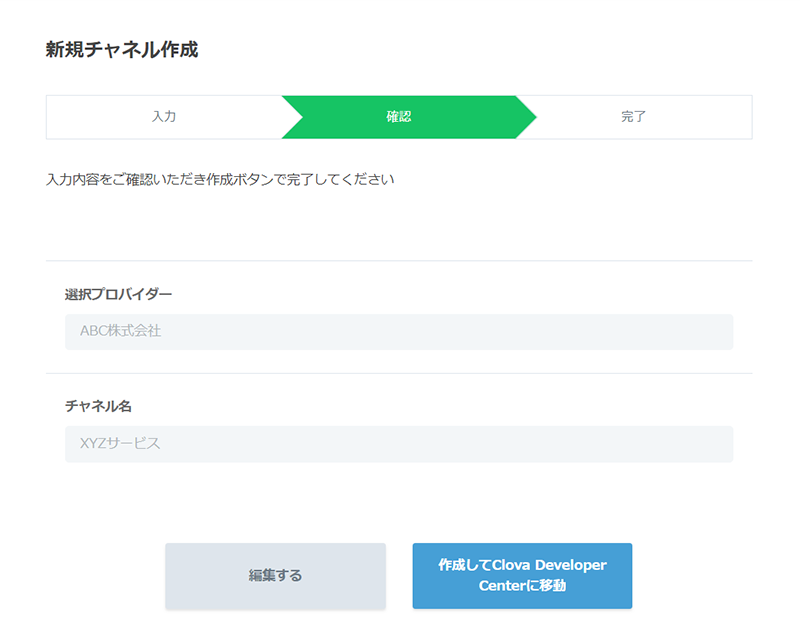
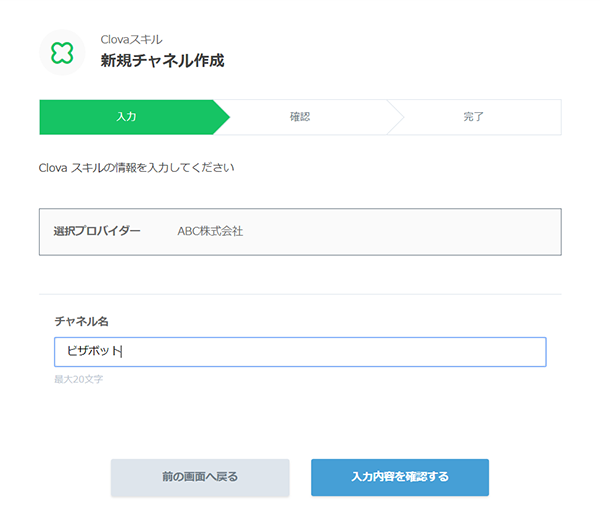
Modify "how to create channel", add Skill Store images
- Modified "How to create channel" caused by UI change
- Added Skill Store images of Clova App

Former-commit-id: 0dc367d44e5af8052373afbfee95f80097b138b5 [formerly 0c0ca5108bff5ba2105f1e1f6f863537530823a3]
Former-commit-id: 9754db1b30ecd9c89f13f521f52a3edb93a5075a

diff --git a/ja/DevConsole/Guides/CEK/Create_Channel.md b/ja/DevConsole/Guides/CEK/Create_Channel.md
@@ -15,9 +15,9 @@ Clova Developer Center βにログインします。
 ![](/DevConsole/Resources/Images/DevConsole-Access_Agreement.png)
 
 3. **スキル設定** または **スキルを開発する** をクリックします。  
-![](/DevConsole/Resources/Images/DevConsole-DevConsole_Home.png)
+![](/DevConsole/Resources/Images/DevConsole-Entering_CEK_Menu.png)
 
-4. **LINE Developersに遷移してスキルを作成** をクリックします。  
+4. **LINE Developersでスキルチャネルを新規作成** をクリックします。  
 ![](/DevConsole/Resources/Images/DevConsole-First_Look_of_Extension_List.png)
 
 <div class="note">
@@ -36,14 +36,20 @@ LINE Developersコンソールでチャネルを作成します。
   お手数ですが、営業担当までご連絡いただきますようお願いいたします。</p>
 </div>
 
-1. **新規チャネル作成** で **Clova** を選択します。  
-![](/DevConsole/Resources/Images/DevConsole-Select_Channel_Type.png)
+1. **プロバイダーリスト** をクリックします。  
+![](/DevConsole/Resources/Images/DevConsole-Provider_List_1.png)
 
-2. プロバイダーを選択します。あらかじめ作成したプロバイダーを使用する場合は、ラジオボタンで当該のプロバイダーを選択し、**次のページ** をクリックします。  
+2. プロバイダーを選択します。  
+![](/DevConsole/Resources/Images/DevConsole-Provider_List_2.png)
+
+  あらかじめ作成したプロバイダーを使用する場合は、当該のプロバイダーをクリックし、**新規チャネル作成** をクリックします。  
 ![](/DevConsole/Resources/Images/DevConsole-Create_Channel_1.png)
 
-  新規プロバイダーを作成する場合は、ラジオボタンで **新規プロバイダー作成** を選択すると入力フォームが表示されます。**新しく追加するプロバイダー名** を入力して **次のページ** をクリックします。  
+  新規にプロバイダーを作成する場合は、**新規プロバイダー作成** をクリックします。新しく追加するプロバイダー名を入力して **確認する** ボタンをクリックします。  
 ![](/DevConsole/Resources/Images/DevConsole-Create_Channel_2.png)
+
+  入力したプロバイダー名を確認して、**作成する** をクリックします。  
+![](/DevConsole/Resources/Images/DevConsole-Create_Channel_3.png)
 
   <div class="note">
     <p><strong>メモ</strong></p>
@@ -51,8 +57,12 @@ LINE Developersコンソールでチャネルを作成します。
     ご自分の名前、あるいは企業名などを入力してください。</p>
   </div>  
 
-3. **チャネル名** を入力し、**入力内容を確認する** をクリックします。  
-![](/DevConsole/Resources/Images/DevConsole-Create_Channel_3.png)
+3. **新規チャネル作成** で **Clova** を選択します。  
+  ![](/DevConsole/Resources/Images/DevConsole-Select_Channel_Type.png)
+
+
+4. **チャネル名** を入力し、**入力内容を確認する** をクリックします。  
+![](/DevConsole/Resources/Images/DevConsole-Create_Channel_4.png)
 
     <div class="note">
       <p><strong>メモ</strong></p>
@@ -60,7 +70,7 @@ LINE Developersコンソールでチャネルを作成します。
       Clovaで提供するサービスの名前などを入力してください。</p>
     </div>
 
-4. 内容を確認し、**作成してClova Developer Centerに移動** をクリックします。  
-![](/DevConsole/Resources/Images/DevConsole-Create_Channel_4.png)
+5. 内容を確認し、**作成してClova Developer Centerに移動** をクリックします。  
+![](/DevConsole/Resources/Images/DevConsole-Create_Channel_5.png)
 
-5. チャネルの作成が完了すると、Clova Developer Center β に遷移します。
+6. チャネルの作成が完了すると、Clova Developer Center β に遷移します。
